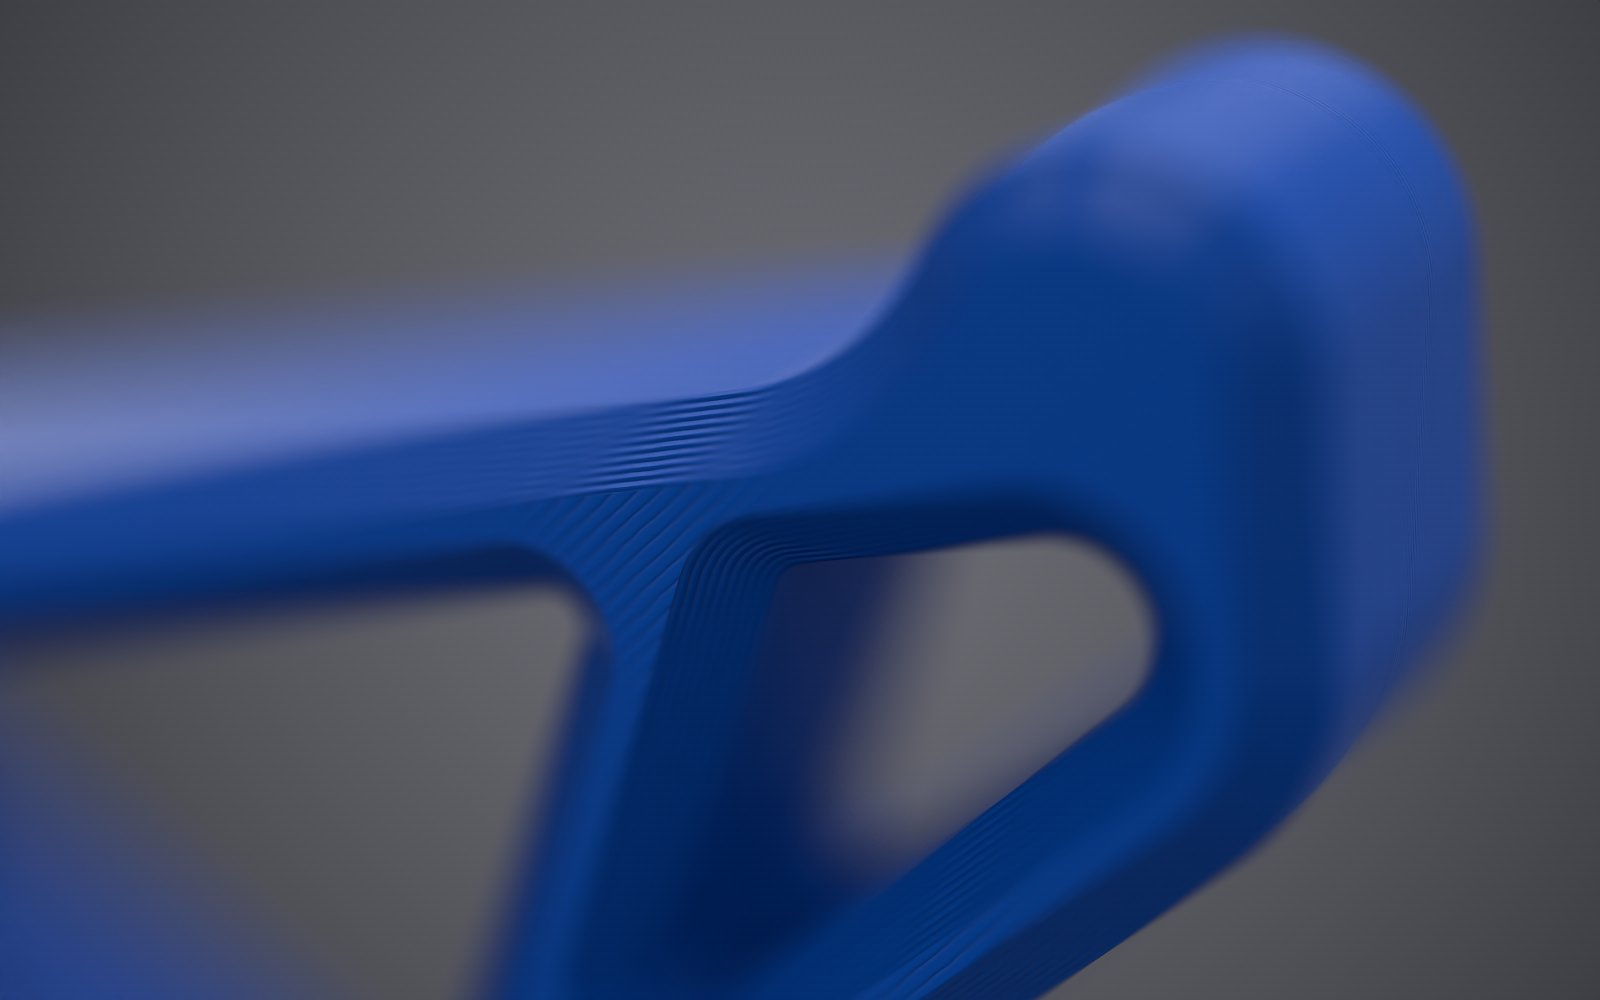
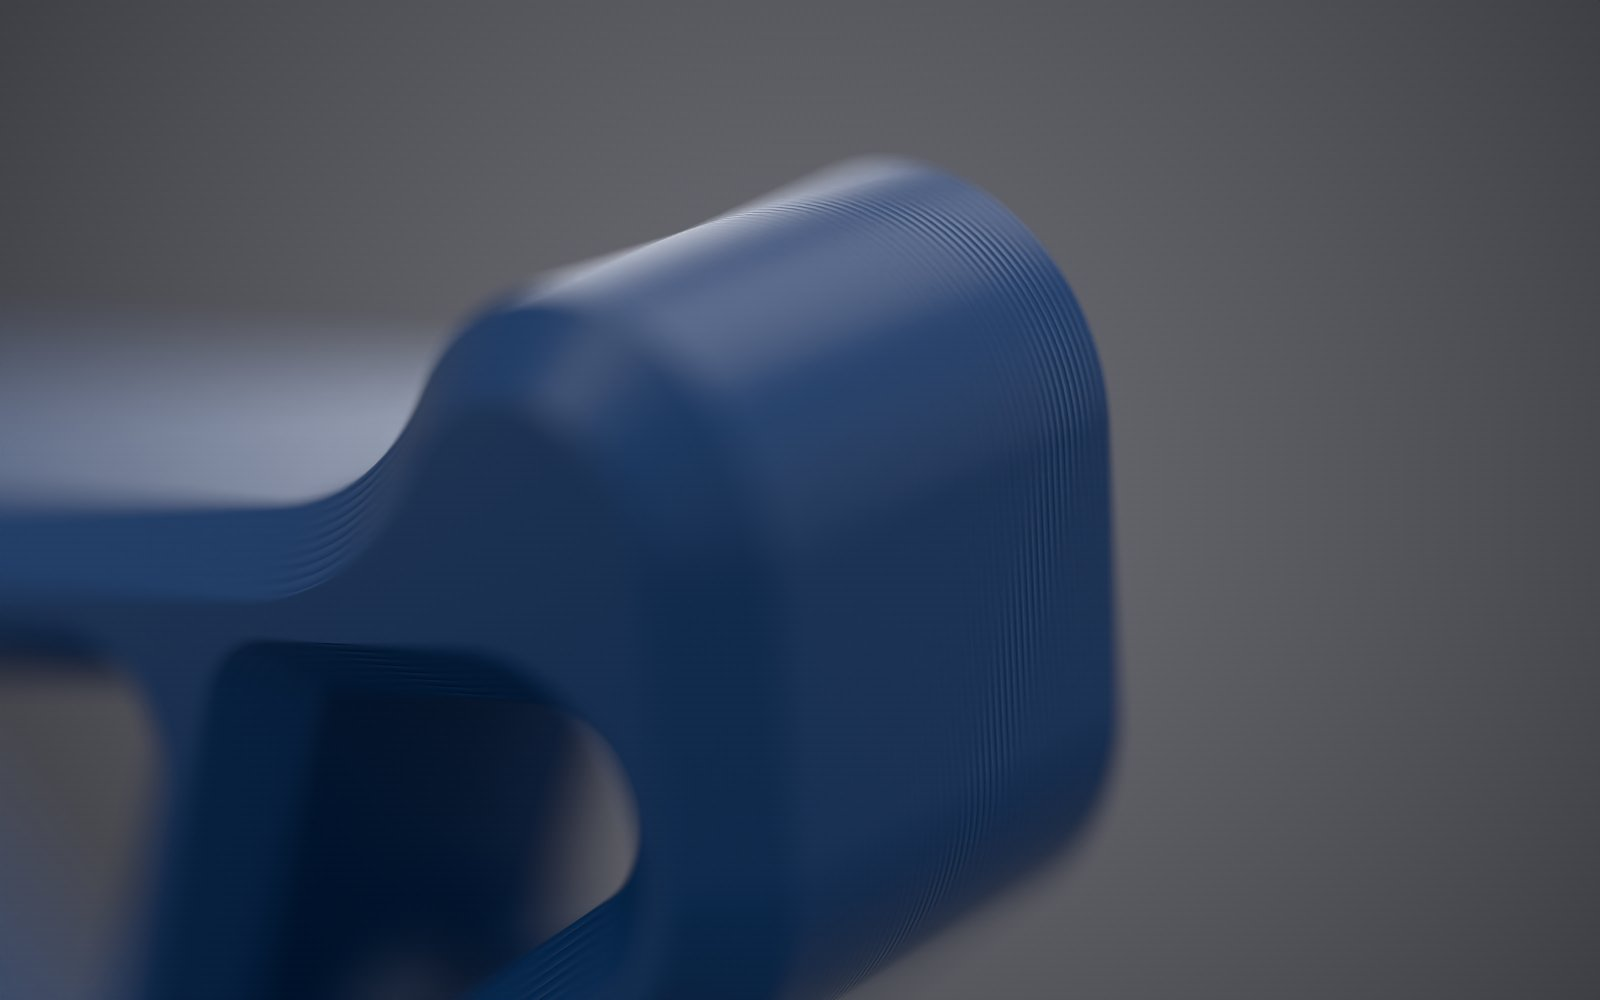
Helmet holder: a wide hero of its own, and layers that stack right
The print material stacked its layers along the part's own Y, but the
holder prints lying flat, so its layers stack through its thickness.
Every holder picture now uses the print material with its layers along
Z: lines that run round the edges, and smooth flat faces.

The hero is wide, not a copy of the reference's tall frame and angle:
orange PLA on a teal wall, one low, hard light throwing its triangle
across the wall as a long shadow. A sand-wall version replaces the
plaster one in the gallery. The colourways are six plain colours of the
print material, and the close-up is on the arm's rounded end, where the
layers wrap the curve.

diff --git a/website/features.html b/website/features.html
@@ -64,7 +64,7 @@
         <h2 id="import">Import</h2>
         <p>Bring in what your CAD or 3D software makes, at full size, with its structure intact.</p>
         <figure><img src="assets/img/app-scene.jpg" alt="The Scene tab listing the headphones part by part" loading="lazy" data-zoom><figcaption>The Scene tab: a model arrives part by part, by name, ready for materials.</figcaption></figure>
-        <figure class="tall"><img src="assets/img/holder-hero.jpg" alt="An orange 3D-printed helmet holder on a teal wall, its shadow falling below it" loading="lazy" data-zoom><figcaption>A helmet holder designed in Fusion and brought in as an STL: orange PLA on a teal wall, under one hard light from above.</figcaption></figure>
+        <figure><img src="assets/img/holder-hero.jpg" alt="An orange 3D-printed helmet holder on a teal wall, its triangle thrown across the wall as a long shadow" loading="lazy" data-zoom><figcaption>A helmet holder designed in Fusion and brought in as an STL: orange PLA on a teal wall, one low, hard light throwing its triangle across the wall.</figcaption></figure>
         <ul>
           <li><strong>CAD:</strong> STEP through OpenCASCADE and IGES, with assemblies, names, colours, units, attributes and layers. Show or hide a layer at once.</li>
           <li><strong>3D:</strong> glTF and GLB, OBJ (with ZBrush polypaint), STL, USD and IFC building models.</li>
@@ -75,8 +75,8 @@
 
         <h2 id="materials">Materials</h2>
         <figure><img src="assets/img/materials-sheet.jpg" alt="Twenty-four material balls from Tequila's library" loading="lazy" data-zoom><figcaption>Some of the library, each ball rendered in Tequila.</figcaption></figure>
-        <figure><img src="assets/img/holder-colours.jpg" alt="Six helmet holders in different 3D-print filament colours" loading="lazy" data-zoom><figcaption>Six of the library's FDM filaments on the same part: white, yellow, red, translucent green, blue and black.</figcaption></figure>
-        <figure><img src="assets/img/holder-macro.jpg" alt="Close-up of a blue 3D-printed part showing its layer lines" loading="lazy" data-zoom><figcaption>Close up, the FDM materials show their layer lines.</figcaption></figure>
+        <figure><img src="assets/img/holder-colours.jpg" alt="Six helmet holders in different 3D-print filament colours" loading="lazy" data-zoom><figcaption>The library's 3D-print material in six colours on the same part: white, yellow, red, green, blue and black.</figcaption></figure>
+        <figure><img src="assets/img/holder-macro.jpg" alt="Close-up of a navy 3D-printed part, its layer lines wrapping a rounded end" loading="lazy" data-zoom><figcaption>Close on the rounded end: the print's layers wrap the curve, stacked through the part's thickness, as it prints lying flat.</figcaption></figure>
         <ul>
           <li><strong>A library of over 300</strong> procedural materials: plastics with mould textures, anodised, brushed and polished metals, car paint with flakes, glass, gems, liquids with bubbles, wood, stone, leather, ceramics, fabrics and 3D-print filaments.</li>
           <li><strong>Real fibres:</strong> a material's Fuzz grows fibres for felt, velvet and tennis-ball fuzz, and both renderers draw them.</li>

diff --git a/website/gallery.html b/website/gallery.html
@@ -58,10 +58,10 @@
       <figure><img src="assets/img/materials-sheet.jpg" alt="Twenty-four material balls" loading="lazy" data-zoom><figcaption><strong>Material previews</strong>Each library material on Tequila's preview ball.</figcaption></figure>
       <figure><img src="assets/img/lighting-trio.jpg" alt="The same perfume bottle under three lighting setups" loading="lazy" data-zoom><figcaption><strong>Three studios</strong>One bottle; only the lights change. Tequila's own path tracer.</figcaption></figure>
       <figure><img src="assets/img/dof.jpg" alt="A row of material balls with shallow depth of field" loading="lazy" data-zoom><figcaption><strong>Depth of field</strong>f/3.5, focused on the velvet ball. Cycles.</figcaption></figure>
-      <figure><img src="assets/img/holder-hero.jpg" alt="An orange 3D-printed helmet holder on a teal wall" loading="lazy" data-zoom><figcaption><strong>Helmet holder</strong>Orange PLA on a teal wall, from an STL made in Fusion. Cycles.</figcaption></figure>
-      <figure><img src="assets/img/holder-plaster.jpg" alt="An orange 3D-printed helmet holder on a warm plaster wall" loading="lazy" data-zoom><figcaption><strong>Helmet holder, plaster</strong>The same light on a warm grey wall. Cycles.</figcaption></figure>
-      <figure><img src="assets/img/holder-colours.jpg" alt="Six helmet holders in different filament colours" loading="lazy" data-zoom><figcaption><strong>Six filaments</strong>The library's FDM materials on one part. Cycles.</figcaption></figure>
-      <figure><img src="assets/img/holder-macro.jpg" alt="Close-up of a blue 3D print's layer lines" loading="lazy" data-zoom><figcaption><strong>Layer lines</strong>FDM blue, close up, with depth of field. Cycles.</figcaption></figure>
+      <figure><img src="assets/img/holder-hero.jpg" alt="An orange 3D-printed helmet holder on a teal wall, its triangle thrown across the wall as a long shadow" loading="lazy" data-zoom><figcaption><strong>Helmet holder</strong>Orange PLA on a teal wall, its shadow drawn by one low light. From an STL made in Fusion. Cycles.</figcaption></figure>
+      <figure><img src="assets/img/holder-sand.jpg" alt="The orange helmet holder on a sand-coloured wall, with its long shadow" loading="lazy" data-zoom><figcaption><strong>Helmet holder, sand</strong>The same light on a warm wall. Cycles.</figcaption></figure>
+      <figure><img src="assets/img/holder-colours.jpg" alt="Six helmet holders in different filament colours" loading="lazy" data-zoom><figcaption><strong>Six colours</strong>The library's 3D-print material on one part. Cycles.</figcaption></figure>
+      <figure><img src="assets/img/holder-macro.jpg" alt="Close-up of a navy 3D print's layer lines" loading="lazy" data-zoom><figcaption><strong>Layer lines</strong>Navy PLA, close up, with depth of field. Cycles.</figcaption></figure>
       <figure><img src="assets/img/soft-studio.jpg" alt="The headphones in the Soft Studio preset" loading="lazy" data-zoom><figcaption><strong>Soft Studio</strong>The studio preset that comes with Tequila. Cycles.</figcaption></figure>
     </div>
   </div>

diff --git a/website/index.html b/website/index.html
@@ -214,7 +214,7 @@
     <div class="strip reveal">
       <a href="gallery.html"><img src="assets/img/headphones-three-quarter.jpg" alt="Headphones from three quarters" loading="lazy"></a>
       <a href="gallery.html"><img src="assets/img/perfume-close.jpg" alt="Perfume bottle close up" loading="lazy"></a>
-      <a href="gallery.html"><img src="assets/img/holder-hero.jpg" alt="An orange 3D-printed helmet holder on a teal wall, its shadow falling below it" loading="lazy"></a>
+      <a href="gallery.html"><img src="assets/img/holder-hero.jpg" alt="An orange 3D-printed helmet holder on a teal wall, its triangle thrown across the wall as a long shadow" loading="lazy" style="object-position: 24% 50%"></a>
     </div>
     <p style="margin-top:22px"><a href="gallery.html">See the gallery <i class="icon" aria-hidden="true">&#xe04d;</i></a></p>
   </div>
